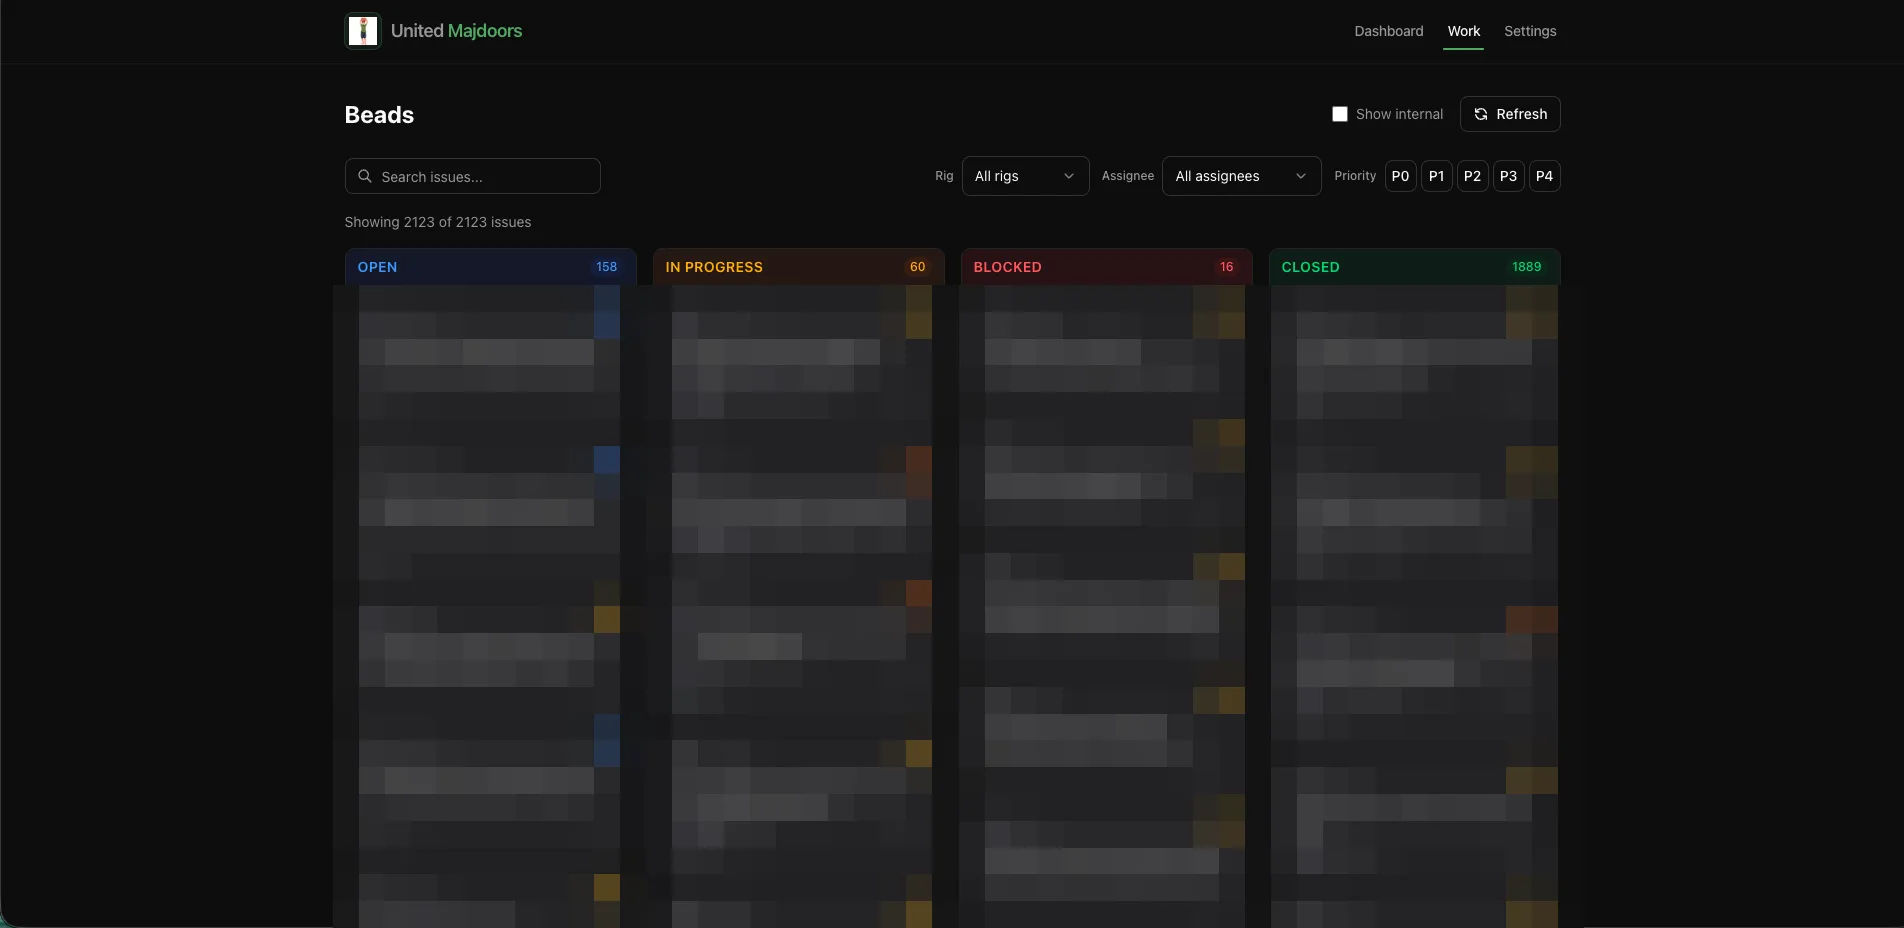
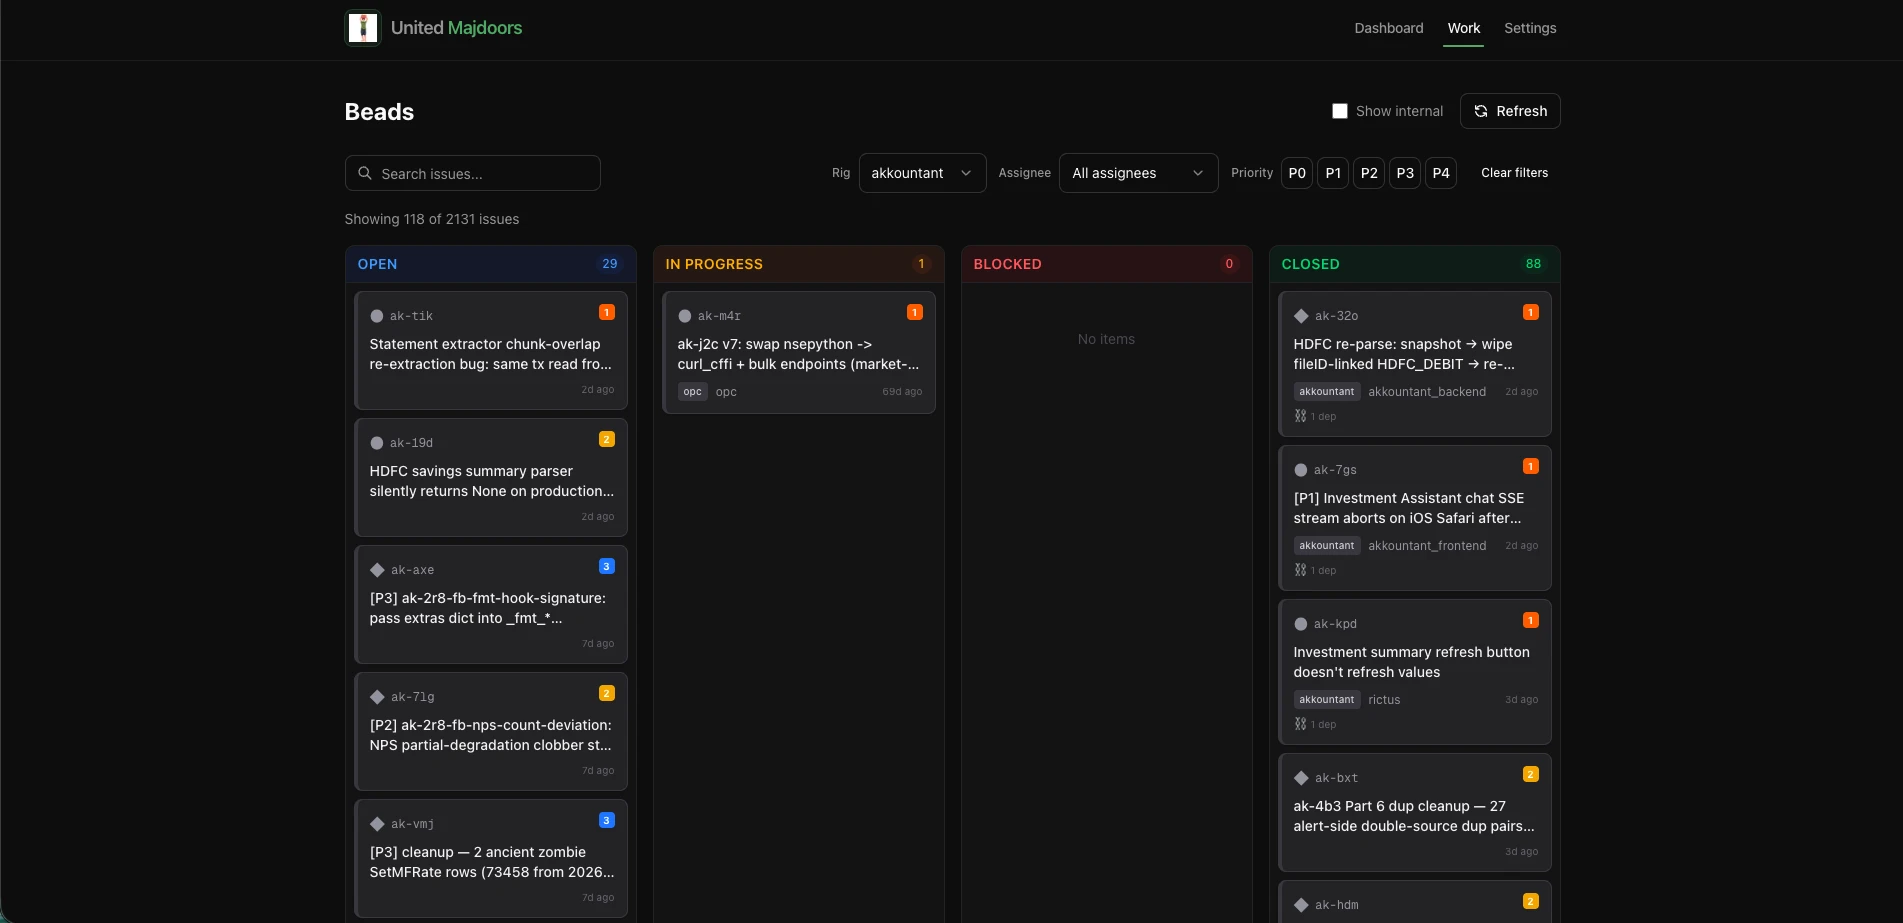
feat(projects): swap Majdoors card for the project-filtered work board
Keeps the pixel-redacted dashboard figure; updates the how-it-works caption to the filtered counts.

diff --git a/src/assets/projects/index.ts b/src/assets/projects/index.ts
@@ -304,8 +304,8 @@ const unitedMajdoors: Project = {
                 {
                     type: 'figure',
                     src: '/assets/projects/united-majdoors/card.webp',
-                    alt: 'The beads work board showing 2,123 issues across four status columns',
-                    caption: '2,123 units of durable work across the fleet — open, in progress, blocked, done. Card contents pixelated.',
+                    alt: 'The beads work board filtered to one project, showing 118 of 2,131 fleet issues',
+                    caption: 'One project’s slice of the board — 118 of 2,131 issues of durable work across the fleet.',
                 },
                 {
                     type: 'decision',

diff --git a/SCREENSHOTS.md b/SCREENSHOTS.md
@@ -25,7 +25,7 @@ off), no code changes.
 | 11 | `public/assets/projects/makaan/price-map.webp` | Makaan · The solution | Interactive price map (Bangalore) with locality overlays |
 | 12 | `public/assets/projects/makaan/valuation.webp` | Makaan · Results | A "Value My Property" result — estimate, rent, comparables |
 | 13 | `public/assets/projects/satte-nights/table.webp` | Satte Nights · The solution | Busy table mid-hand on a phone — play chips visible, **no real usernames** |
-| ~~16~~ ✅ | `public/assets/projects/united-majdoors/dashboard.webp` | United Majdoors · The solution | **DELIVERED** 2026-08-19 (pixel-redacted by vidish_space_lead) |
+| ~~16~~ ✅ | `public/assets/projects/united-majdoors/dashboard.webp` | United Majdoors · The solution | **DELIVERED** 2026-08-19 — pixel-redacted (restored after escalation items B/C; Overseer-supplied replacement solved the card) |
 | 17 | `public/assets/projects/united-majdoors/terminal.webp` | United Majdoors · Results | Live agent terminal streaming mid-task. **REDACT tenant names, paths, tokens** |
 
 ## Card images (grid thumbnails — currently using old images, swap when ready)
@@ -37,7 +37,7 @@ off), no code changes.
 | 10 | `public/assets/projects/vidish-space/card.webp` | `vidishSpaceModal/vidishSpaceDark.webp` | The current site — monsoon or winter full-page looks best on cards |
 | 14 | `public/assets/projects/makaan/card.webp` | *(none — card currently text-only)* | Makaan dashboard/map — strongest single screen |
 | 15 | `public/assets/projects/satte-nights/card.webp` | *(none — card currently text-only)* | A table mid-hand — **no real usernames** |
-| ~~18~~ ✅ | `public/assets/projects/united-majdoors/card.webp` | *(was monogram)* | **DELIVERED** 2026-08-19 — beads board, pixel-redacted (also used as a How-it-works figure) |
+| ~~18~~ ✅ | `public/assets/projects/united-majdoors/card.webp` | *(was monogram)* | **DELIVERED** 2026-08-19 — Overseer-supplied akkountant-filtered board, RAW (clean by construction; also the How-it-works figure) |
 
 ## How to hand them over
 
